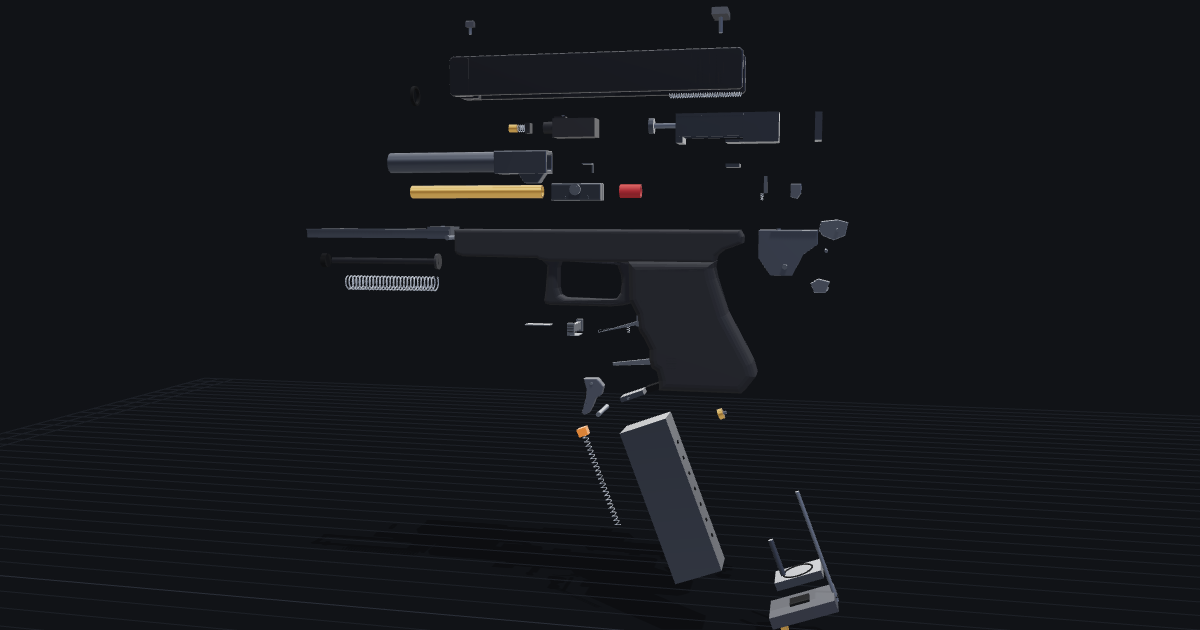
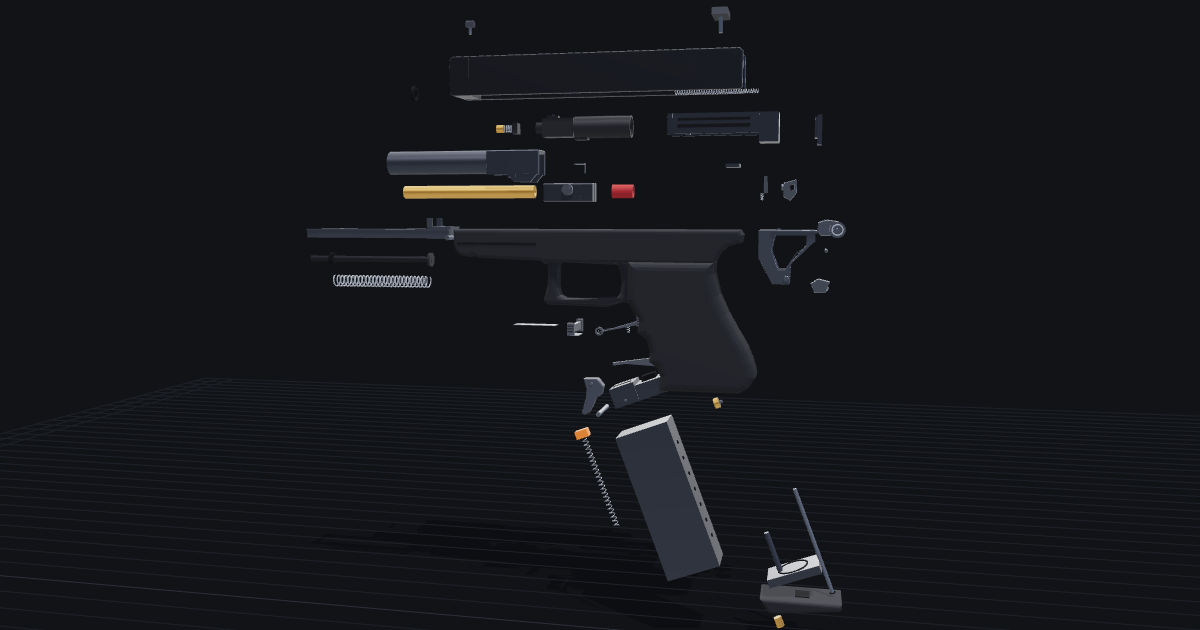
G19 refinement pass 3: measured sizes
Barrel 14.45mm OD (Faxon) in a 14.76mm nose bore (SCT slide drawing), the bore axis dropped to fit the 21.5mm slide, the hood and hop chamber widened to match and the nozzle slimmed to clear the slide top. Magazine 33.2 by 22.4mm, after holster-maker calipers on a 22.9mm G19 mag, kept 0.5mm narrower so it clears the frame walls. Locking block uprights beside the barrel lug, slide stop pivot eye and paddle ridges, outlet valve note confirmed on the rear face. Silhouette still within 3% of the WE photo.

diff --git a/g19/index.html b/g19/index.html
@@ -473,17 +473,17 @@ const REAR = X(1633);          // slide rear face, -89.2
 const SL_TOP = 11.7, SL_BOT = -10;
 const SW = 25.5 / 2;           // Glock slide width 25.5mm
 const WALL = 2.6;
-const BY = 3.4;                // bore axis: 2mm of slide above the barrel hole
+const BY = 2.4;                // bore axis: Glock barrel 14.45mm OD in a 14.76mm nose bore (Faxon, SCT drawing)
 const BREECH = REAR + 75.4;    // breech face at the back of the ejection port (right-side photo); outer barrel 97mm
-const GY = -6.9;               // recoil guide axis: the rod tip passes through a small hole under the barrel hole
+const GY = -7.5;               // recoil guide axis: the rod tip passes through a small hole under the barrel hole
 const PORT0 = BREECH, PORT1 = BREECH + 28;   // ejection port over the barrel hood, 28mm long in the photo
 
 // magazine: built upright in its own frame (top rear corner at the origin side, axis along -y), then leaned back to the
 // grip angle and dropped into the frame. The photo puts the base plate centre at x -69, y -114.
 const MAG_A = 20.7 * D2R;
-const MAG_PIV = [-32.2, -16.2];
+const MD = 16.6, MW = 11.2;    // half depth and half width: G19 mag 33.2 x 22.9mm (holster maker's calipers); 22.4 here so it clears the frame walls
+const MAG_PIV = [-46 + MD * Math.cos(MAG_A), -11 - MD * Math.sin(MAG_A)];   // keeps the top rear corner at x -46, y -11
 const magT = g => g.rotateZ(-MAG_A).translate(MAG_PIV[0], MAG_PIV[1], 0);
-const MD = 14.8, MW = 11;      // half depth (front to back) and half width of the mag body
 
 // ================= SLIDE =================
 part('slide', 'Slide', 'sld', ['G-43'], [0, 80, 0],
@@ -498,11 +498,11 @@ part('slide', 'Slide', 'sld', ['G-43'], [0, 80, 0],
     p.push([zAt(prof(wall(false), WALL, 0.6), -SW + WALL / 2), 'slide']);
     p.push([zAt(prof(wall(true), WALL, 0.6), SW - WALL / 2), 'slide']);
     // top plate, open over the port on the right
-    p.push([bx(PORT1, MUZ - 1, SL_TOP - 3, SL_TOP, -SW + WALL, SW - WALL), 'slide']);
-    p.push([bx(REAR + 1, PORT0, SL_TOP - 3, SL_TOP, -SW + WALL, SW - WALL), 'slide']);
-    p.push([bx(PORT0, PORT1, SL_TOP - 3, SL_TOP, -SW + WALL, -3), 'slide']);
+    p.push([bx(PORT1, MUZ - 1, SL_TOP - 2.6, SL_TOP, -SW + WALL, SW - WALL), 'slide']);
+    p.push([bx(REAR + 1, PORT0, SL_TOP - 2.6, SL_TOP, -SW + WALL, SW - WALL), 'slide']);
+    p.push([bx(PORT0, PORT1, SL_TOP - 2.6, SL_TOP, -SW + WALL, -3), 'slide']);
     // nose block: barrel hole, and the small hole under it for the recoil guide tip
-    p.push([secX(rr(-SW, SW, SL_BOT, SL_TOP, 1.2), MUZ - 11, MUZ - 0.4, 0.4, [circ(0, BY, 6.35, 28), circ(0, GY, 2.9, 16)]), 'slide']);
+    p.push([secX(rr(-SW, SW, SL_BOT, SL_TOP, 1.2), MUZ - 11, MUZ - 0.4, 0.4, [circ(0, BY, 7.38, 32), circ(0, GY, 2.3, 16)]), 'slide']);
     // breech block over the rear sight, closed at the back except for the rear plate opening
     p.push([bx(REAR + 0.5, REAR + 5, SL_BOT, SL_TOP - 3, -SW + WALL, -8.6), 'slide']);
     p.push([bx(REAR + 0.5, REAR + 5, SL_BOT, SL_TOP - 3, 8.6, SW - WALL), 'slide']);
@@ -553,7 +553,7 @@ part('rearPlate', 'Rear slide plate', 'bbu', ['G-54-1'], [-45, 48, 0],
 
 part('piston', 'Piston head + screw', 'bbu', ['G-56', 'G-55'], [12, 48, 0],
   'Round piston cup with an O-ring groove, fixed to the front of the housing\'s rear block by screw G-55. On firing, gas fills the nozzle cylinder and drives the nozzle back over it, which throws the slide. The newer MOS blowback unit uses a D-shaped cup instead.',
-  [[cyl(1.6, 4, 'x', HB0 + 12.5, BY, 0, 12), 'steel'], [cyl(6.1, 4.5, 'x', HB0 + 16.5, BY, 0, 28), 'dark'], [torus(6.1, 0.55, 'x', HB0 + 17.6, BY, 0), 'black']], { slide: true });
+  [[cyl(1.6, 4, 'x', HB0 + 12.5, BY, 0, 12), 'steel'], [cyl(5.5, 4.5, 'x', HB0 + 16.5, BY, 0, 28), 'dark'], [torus(5.5, 0.5, 'x', HB0 + 17.6, BY, 0), 'black']], { slide: true });
 
 part('returnSpring', 'Nozzle return spring', 'bbu', ['G-53'], [-25, 62, 0],
   'Long thin spring in the channel along the top of the housing that pulls the nozzle forward again after each shot (a single spring on the semi sheet; auto models use the 52/53/85 set).',
@@ -561,7 +561,7 @@ part('returnSpring', 'Nozzle return spring', 'bbu', ['G-53'], [-25, 62, 0],
 
 part('nozzle', 'Loading nozzle + screw', 'bbu', ['G-47', 'G-48'], [48, 48, 0],
   'Polymer loading nozzle on screw G-48, about 47mm long: a round cylinder at the back that slides over the piston head, a narrower front body holding the valve, and the tip that seats in the back of the bucking. Shared by the G17, G19, G27 and G34 (the G18/G23/G26/G35 nozzle differs). Stock WE nozzles crack: the usual first upgrade is a reinforced one (Guarder, CowCow).',
-  [[tube(6.2, 7.3, HB0 + 13, -38, 28, BY), 'nylon'],
+  [[tube(5.6, 6.6, HB0 + 13, -38, 28, BY), 'nylon'],
    [bx(-38, BREECH - 5, BY - 5.6, BY + 5.4, -5.6, 5.6), 'nylon'],
    [tube(2.6, 3.4, BREECH - 5, BREECH - 0.3, 20, BY), 'nylon'],
    [bx(BREECH - 14, BREECH - 7, BY + 5.4, BY + 7.2, -2, 2), 'nylon'],
@@ -580,12 +580,12 @@ part('bbuBlock', 'Slide insert block', 'bbu', ['G-76'], [-25, 36, 0],
 const HOOD1 = BREECH + 32;
 part('outerBarrel', 'Outer barrel', 'bar', ['G-39'], [45, 28, 0],
   'Metal outer barrel, G19 length. Square hood over the chamber (it fills the ejection port) and a cam lug under it, like the firearm: it drops at the rear as the slide comes back. About 97mm long here: the hood starts at the back of the ejection port, which the right-side photo puts 75mm from the slide rear (the firearm barrel is 102mm). Threaded outer barrels are a common swap.',
-  [[tube(4.8, 6.25, HOOD1, MUZ - 0.3, 32, BY), 'dark'],
+  [[tube(5.2, 7.2, HOOD1, MUZ - 0.3, 32, BY), 'dark'],
    // hood: a U open underneath (the hop chamber sits in it), legs running down into the cam lug
-   [secX([[-6.9, BY + 6.1], [6.9, BY + 6.1], [7.4, BY + 5.6], [7.4, BY - 7], [5.8, BY - 7], [5.8, BY + 4.6], [-5.8, BY + 4.6], [-5.8, BY - 7], [-7.4, BY - 7], [-7.4, BY + 5.6]], BREECH, HOOD1, 0.3), 'dark'],
-   [secX(circ(0, BY, 6.25, 28), HOOD1 - 4, HOOD1 + 0.5, 0, [circ(0, BY, 4.8, 20)]), 'dark'],
-   ...[1, -1].map(sd => [zAt(prof([[BREECH + 1, BY - 7], [BREECH + 19, BY - 7], [BREECH + 15, BY - 12.5], [BREECH + 5, BY - 12.5]], 1.6, 0.3), sd * 6.6), 'dark']),
-   [bx(BREECH + 14, BREECH + 19, BY - 9, BY - 7, -7.4, 7.4), 'dark']], { slide: 3 });
+   [secX([[-7.3, BY + 6.6], [7.3, BY + 6.6], [7.8, BY + 6.1], [7.8, BY - 7.5], [6.2, BY - 7.5], [6.2, BY + 5], [-6.2, BY + 5], [-6.2, BY - 7.5], [-7.8, BY - 7.5], [-7.8, BY + 6.1]], BREECH, HOOD1, 0.3), 'dark'],
+   [secX(circ(0, BY, 7.2, 28), HOOD1 - 4, HOOD1 + 0.5, 0, [circ(0, BY, 5.2, 20)]), 'dark'],
+   ...[1, -1].map(sd => [zAt(prof([[BREECH + 1, BY - 7.5], [BREECH + 19, BY - 7.5], [BREECH + 15, BY - 12], [BREECH + 5, BY - 12]], 1.6, 0.3), sd * 7), 'dark']),
+   [bx(BREECH + 14, BREECH + 19, BY - 9.5, BY - 7.5, -7.8, 7.8), 'dark']], { slide: 3 });
 
 part('innerBarrel', 'Inner barrel', 'bar', ['G-38'], [45, 10, 0],
   'Brass inner barrel, about 84mm for the G19 (WE does not state it; aftermarket sets for the WE G19 and G19 Gen5 are 84mm, the G17 one is 97mm). Bore not published. A tightbore (Maple Leaf, Prometheus, Madbull) is a common upgrade, best done with a new bucking.',
@@ -593,8 +593,8 @@ part('innerBarrel', 'Inner barrel', 'bar', ['G-38'], [45, 10, 0],
 
 part('hopChamber', 'Hop-up chamber halves + screws', 'bar', ['G-35', 'G-40', 'G-34'], [12, 10, 0],
   'Two aluminum halves, left G-35 and right G-40, joined by two G-34 screws (M2x6 countersunk per the MOS sheet). It rides inside the outer barrel hood; aftermarket chambers for this pistol are 40mm long.',
-  [[secX(rr(-5.4, 0, BY - 5.4, BY + 4.6, 1), BREECH + 0.3, BREECH + 30, 0.2), 'alu'],
-   [secX(rr(0, 5.4, BY - 5.4, BY + 4.6, 1), BREECH + 0.3, BREECH + 30, 0.2), 'alu'],
+  [[secX(rr(-5.8, 0, BY - 6, BY + 4.8, 1), BREECH + 0.3, BREECH + 30, 0.2), 'alu'],
+   [secX(rr(0, 5.8, BY - 6, BY + 4.8, 1), BREECH + 0.3, BREECH + 30, 0.2), 'alu'],
    ...[BREECH + 8, BREECH + 22].map(x => [cyl(1, 11, 'z', x, BY - 3.6, 0, 10), 'steel'])], { slide: 3 });
 
 part('bucking', 'Hop-up bucking', 'bar', ['G-36'], [-12, 10, 0],
@@ -616,7 +616,7 @@ part('guideRod', 'Recoil guide rod + spring stop', 'bar', ['G-31', 'G-33'], [100
 
 part('recoilSpring', 'Recoil spring', 'bar', ['G-32'], [100, -36, 0],
   'Recoil spring on the guide rod.',
-  [[spring(3.6, 0.45, MUZ - 15.2 - (BREECH + 18), 26, 'x', BREECH + 18, GY, 0), 'spring']], { slide: 3 });
+  [[spring(3.4, 0.45, MUZ - 15.2 - (BREECH + 18), 26, 'x', BREECH + 18, GY, 0), 'spring']], { slide: 3 });
 
 // ================= FRAME AND CONTROLS =================
 const FT = Y(220);   // frame top under the slide
@@ -630,9 +630,9 @@ part('frame', 'Frame', 'frm', ['G-01'], [0, 0, 0],
     const guardH = P([[745, 377], [1000, 380], [1035, 395], [1052, 440], [1057, 480], [1050, 530], [1030, 560], [1000, 567], [770, 562], [742, 547], [732, 510], [732, 410]]);
     const grip = P([[1100, 372], [1514, 373], [1512, 428], [1537, 529], [1577, 620], [1600, 660], [1625, 705], [1650, 745], [1675, 790], [1700, 850], [1712, 890], [1718, 921], [1686, 970], [1641, 1001],
       [1253, 1001], [1259, 930], [1250, 915], [1244, 890], [1225, 875], [1203, 860], [1207, 814], [1203, 800], [1198, 775], [1190, 752], [1170, 735], [1145, 719], [1148, 690], [1150, 665], [1145, 645], [1132, 628], [1106, 586], [1095, 560]]);
-    return [[profR(upper, 23, 2), 'frame'], [profR(guardO, 12, 2.5, [guardH]), 'frame'], [profR(grip, 30, 5), 'frame'],
+    return [[profR(upper, 24, 2), 'frame'], [profR(guardO, 12, 2.5, [guardH]), 'frame'], [profR(grip, 30, 5), 'frame'],
       // Gen3 single-slot accessory rail: a groove along each side of the dust cover and one cross slot underneath
-      ...[1, -1].map(sd => [bx(X(640), X(232), Y(296), Y(284), sd * 11.5 - 0.3, sd * 11.5 + 0.3), 'black']),
+      ...[1, -1].map(sd => [bx(X(640), X(232), Y(296), Y(284), sd * 12 - 0.3, sd * 12 + 0.3), 'black']),
       [bx(X(338), X(322), Y(362), Y(358), -8, 8), 'black']];
   })(), { shell: true });
 
@@ -646,6 +646,8 @@ part('frontHousing', 'Front chassis + screw, pin', 'frm', ['G-08', 'G-09', 'G-10
    ...[1, -1].map(sd => [bx(-13, MUZ - 2, FT - 0.8, FT, sd * 10.6 - 0.6, sd * 10.6 + 0.6), 'zinc']),
    [bx(MUZ - 6, MUZ - 2, FT - 5.5, FT - 3, -8.2, 8.2), 'zinc'],
    [bx(-13, 2, FT - 6, FT + 1.5, -8.2, 8.2), 'zinc'],
+   // locking block uprights either side of the barrel lug (frame-top photo)
+   ...[1, -1].map(sd => [bx(-1.5, 2, FT + 1.5, -3.5, sd * 8.1 - 0.6, sd * 8.1 + 0.6), 'zinc']),
    [cyl(1.4, 3, 'y', -5, FT + 0.5, 0, 10), 'steel'],
    [cyl(1.5, 24, 'z', X(1000), Y(262), 0, 12), 'steel']]);
 
@@ -660,6 +662,8 @@ part('slideStop', 'Slide stop lever + spring', 'frm', ['G-12', 'G-13'], [0, -50,
   'Slide stop on the left, pivoting on the trigger pin. Locks the slide back on an empty mag and releases it. Gen5 has a two-sided one.',
   [[bx(X(1182), X(1145), Y(275), Y(220), -13, -11), 'steel'],
    [prof([[X(950), Y(298)], [X(1150), Y(268)], [X(1150), Y(250)], [X(950), Y(312)]], 1, 0.2).translate(0, 0, -10.2), 'steel'],
+   [tube(1.5, 2.6, -0.5, 0.5, 16).rotateY(Math.PI / 2).translate(X(955), Y(305), -10.2), 'steel'],
+   ...[0, 1, 2, 3].map(i => [bx(X(1178), X(1148), Y(228 + i * 12), Y(225 + i * 12), -13.4, -13), 'black']),
    [spring(0.8, 0.2, 5, 4, 'y', X(1100), Y(310), -9.6), 'spring']]);
 
 part('magCatch', 'Mag catch + spring', 'frm', ['G-06', 'G-04'], [-20, -40, 0],
@@ -727,7 +731,7 @@ part('magLips', 'Feed lips + pin, gas route', 'mag', ['G-62', 'G-61', 'G-63'], [
    [magT(cyl(0.8, 2 * MW - 1.6, 'z', 9, -2, 0, 8)), 'steel']]);
 
 part('outletValve', 'Outlet valve', 'mag', ['G-60'], [-28, -100, 0],
-  'Outlet (release) valve screwed into the back of the mag near the top; the valve knocker strikes its stem. Comes out with a valve key. Placed per the WE drawing (on the witness-hole face); one teardown video calls that face the front.',
+  'Outlet (release) valve screwed into the back of the mag near the top; the valve knocker strikes its stem. Comes out with a valve key. It sits on the witness-hole face, the rear, as in the WE drawing and the owner-review photos, behind which the knocker waits.',
   [[magT(cyl(3.2, 3, 'x', -MD - 1.4, -3, 0, 20)), 'brass'], [magT(cyl(1, 2, 'x', -MD - 3.8, -3, 0, 10)), 'steel']]);
 
 part('follower', 'Follower + spring', 'mag', ['G-64', 'G-65'], [32, -108, 0],
@@ -749,7 +753,7 @@ part('magScrew', 'Mag screw + seals', 'mag', ['G-71', 'G-72', 'G-73'], [-85, -11
 
 part('basePlate', 'Base plate + stopper', 'mag', ['G-67', 'G-66'], [-60, -122, 0],
   'Slide-off base plate with the bumper stopper G-66 that locks it. It sits level with the bottom of the grip rather than square to the mag (traced from the photo). Gen5 has its own plate.',
-  [[profR(P([[1262, 1002], [1652, 1002], [1652, 1026], [1642, 1036], [1325, 1071], [1302, 1066], [1285, 1040]]), 27, 2), 'poly'],
+  [[profR(P([[1262, 1002], [1652, 1002], [1652, 1026], [1642, 1036], [1325, 1071], [1302, 1066], [1285, 1040]]), 27, 2), 'frame'],
    [bx(X(1500), X(1430), Y(1002), Y(997), -5, 5), 'black']]);
 
 
